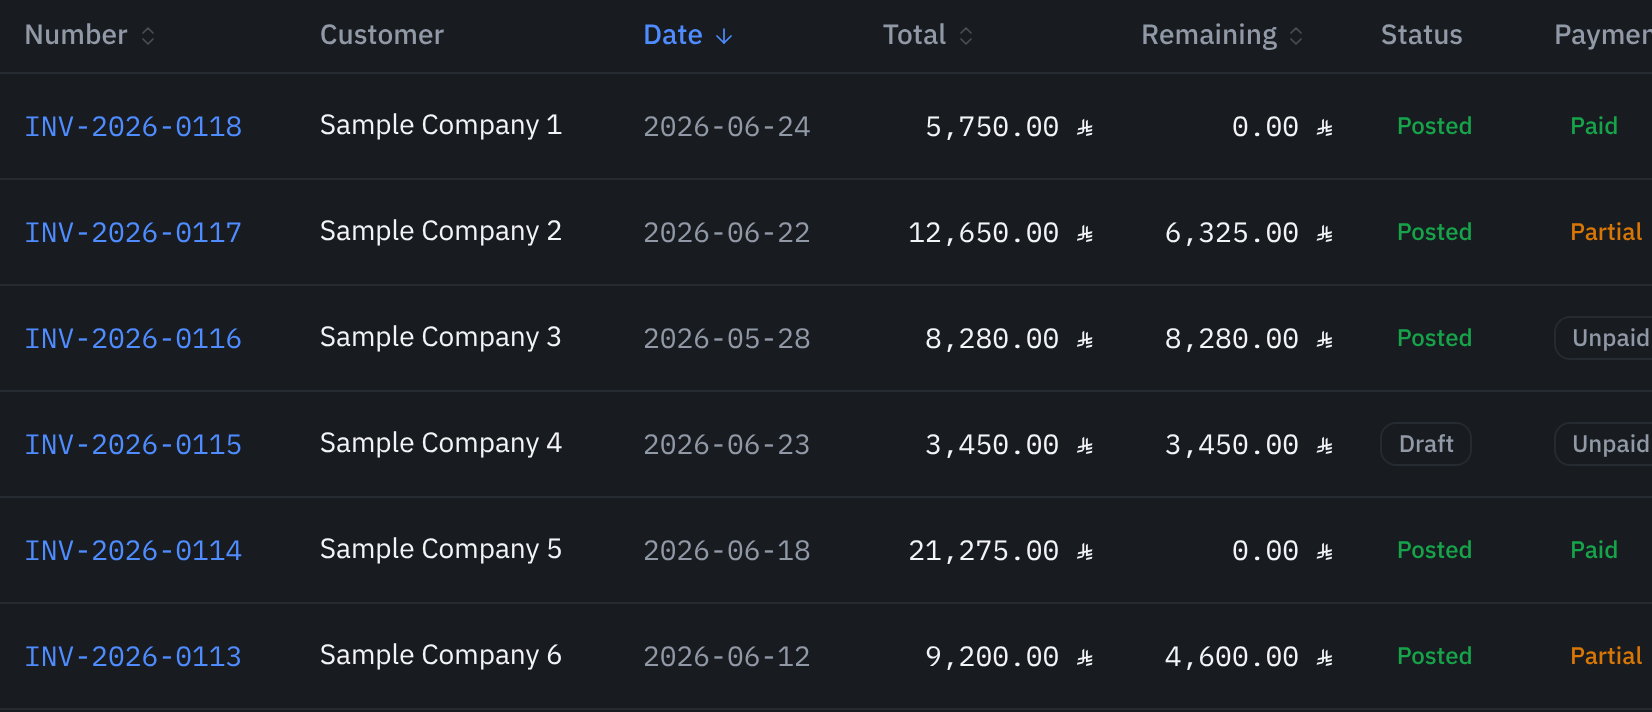
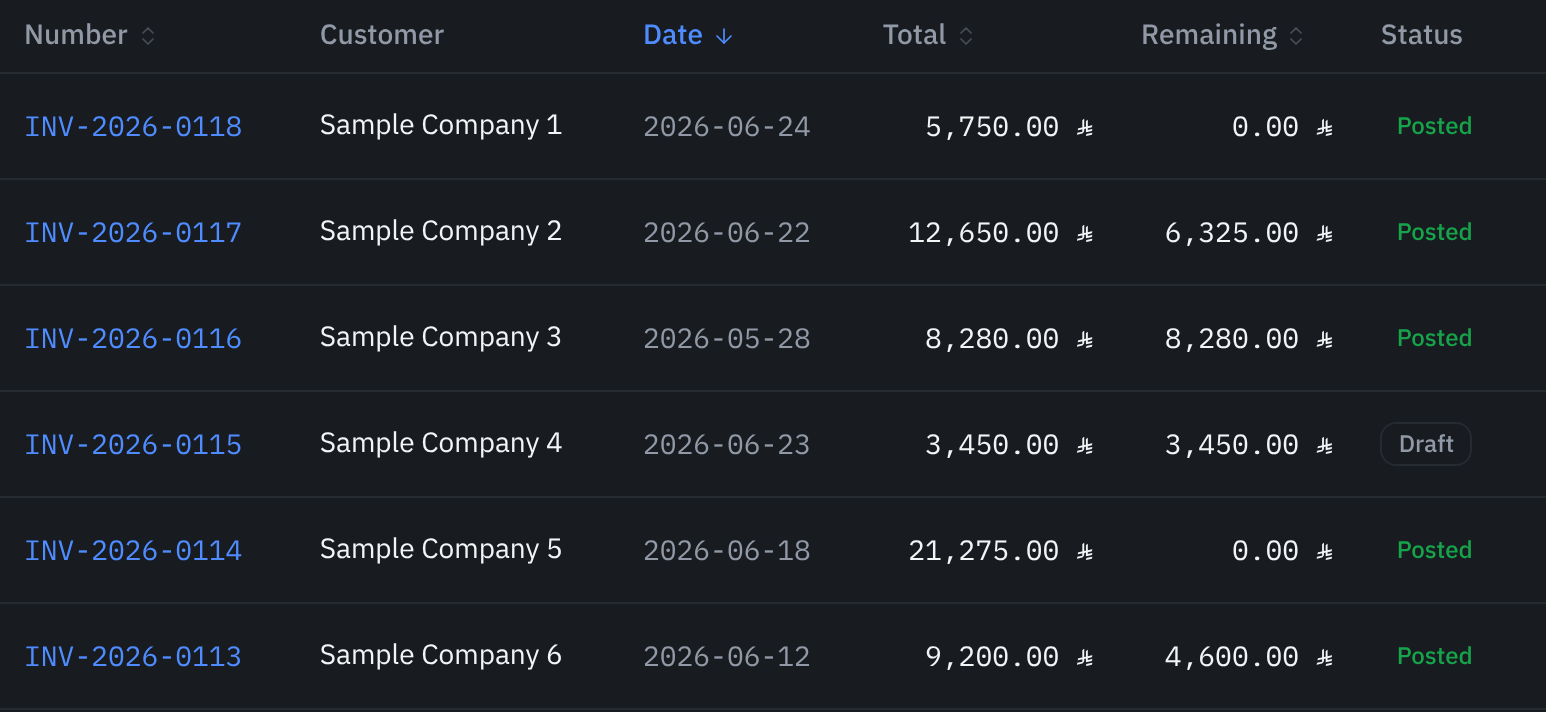
fix(web): landing sales and purchases crops end on a column boundary; alt text matches them
Claude-Session: https://claude.ai/code/session_01PGrToCuxFgSVir6H6hUdMG

diff --git a/web/src/components/landing/landing-shot.tsx b/web/src/components/landing/landing-shot.tsx
@@ -26,9 +26,9 @@ type ShotSize = readonly [number, number];
 /** أبعاد الملف الأصلي بالبكسل (2x) لحجز المساحة؛ تتطابق عبر السمتين، وتختلف باللغة حيث يختلف ارتفاع الجدول الملتقط. */
 const SHOT_SIZE: Record<LandingShotName, ShotSize | Record<'ar' | 'en', ShotSize>> = {
   'hero-entry': [1652, 808],
-  'mod-sales': [1652, 712],
+  'mod-sales': { ar: [1496, 712], en: [1546, 712] },
   'mod-pos': [2360, 1520],
-  'mod-purchases': [1652, 664],
+  'mod-purchases': { ar: [1496, 604], en: [1546, 604] },
   'mod-books': { ar: [1652, 710], en: [1652, 782] },
   'mod-reports': [1752, 1120],
   'phone-dashboard': [780, 1688],
